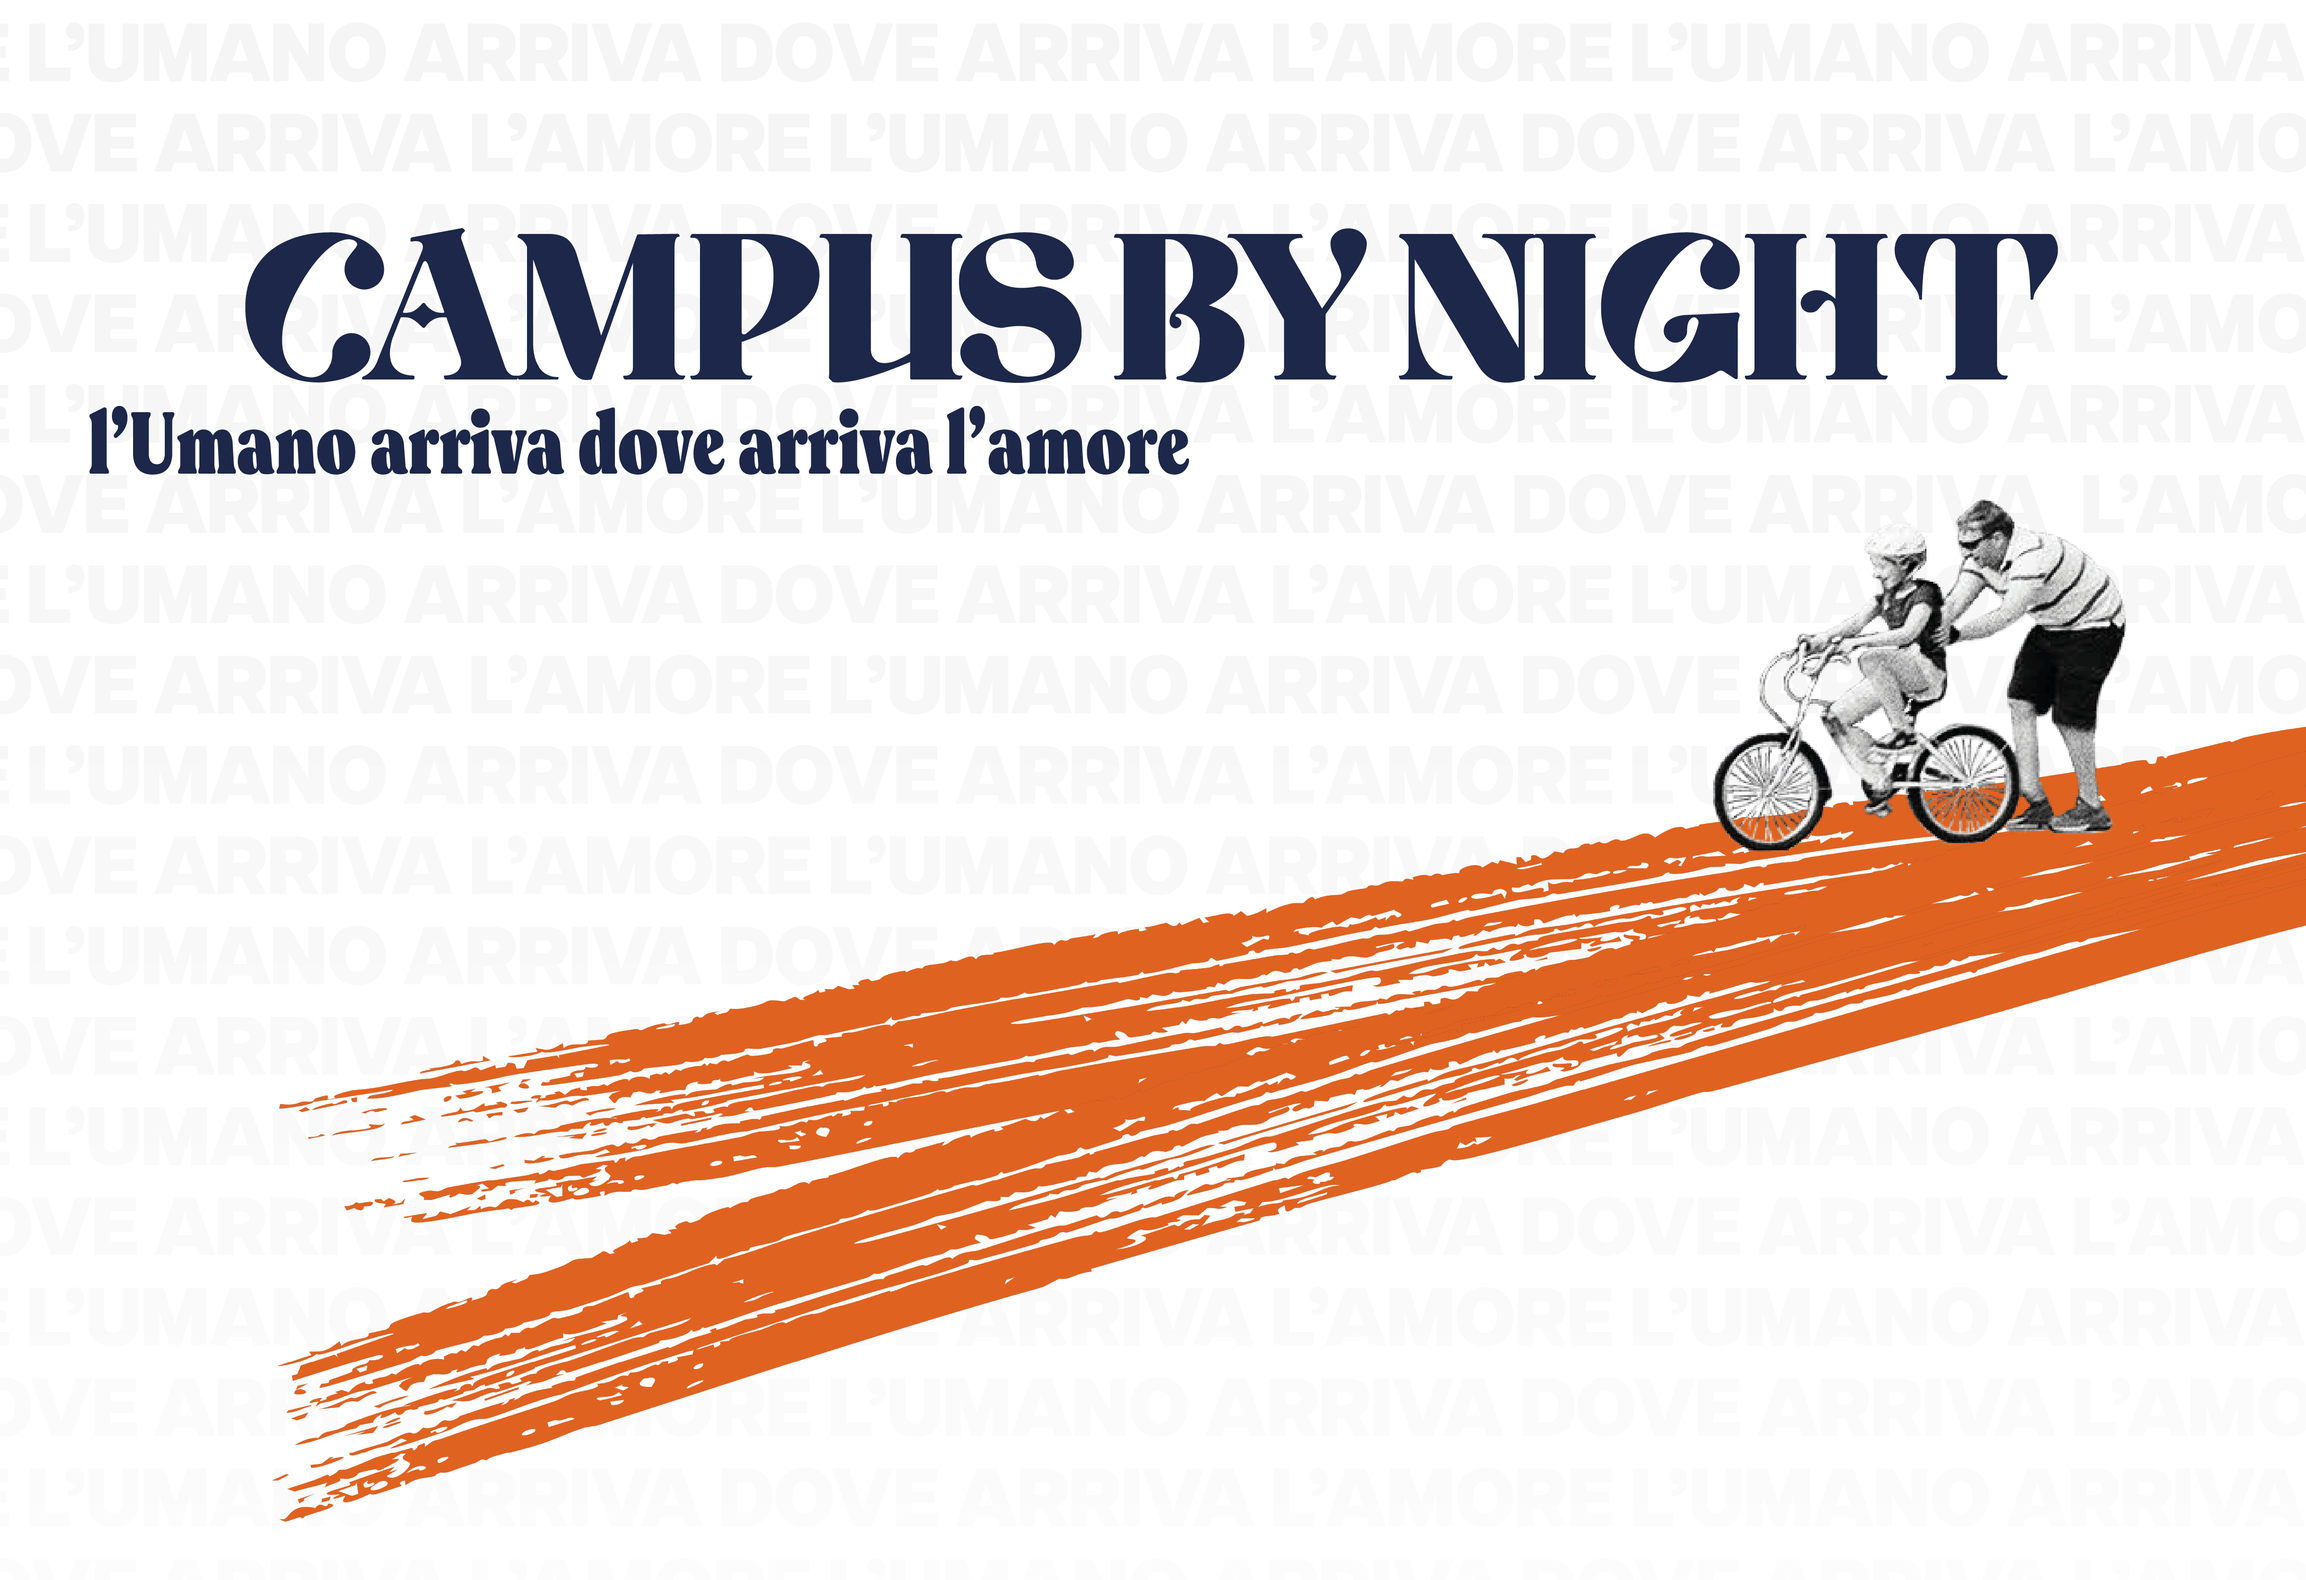
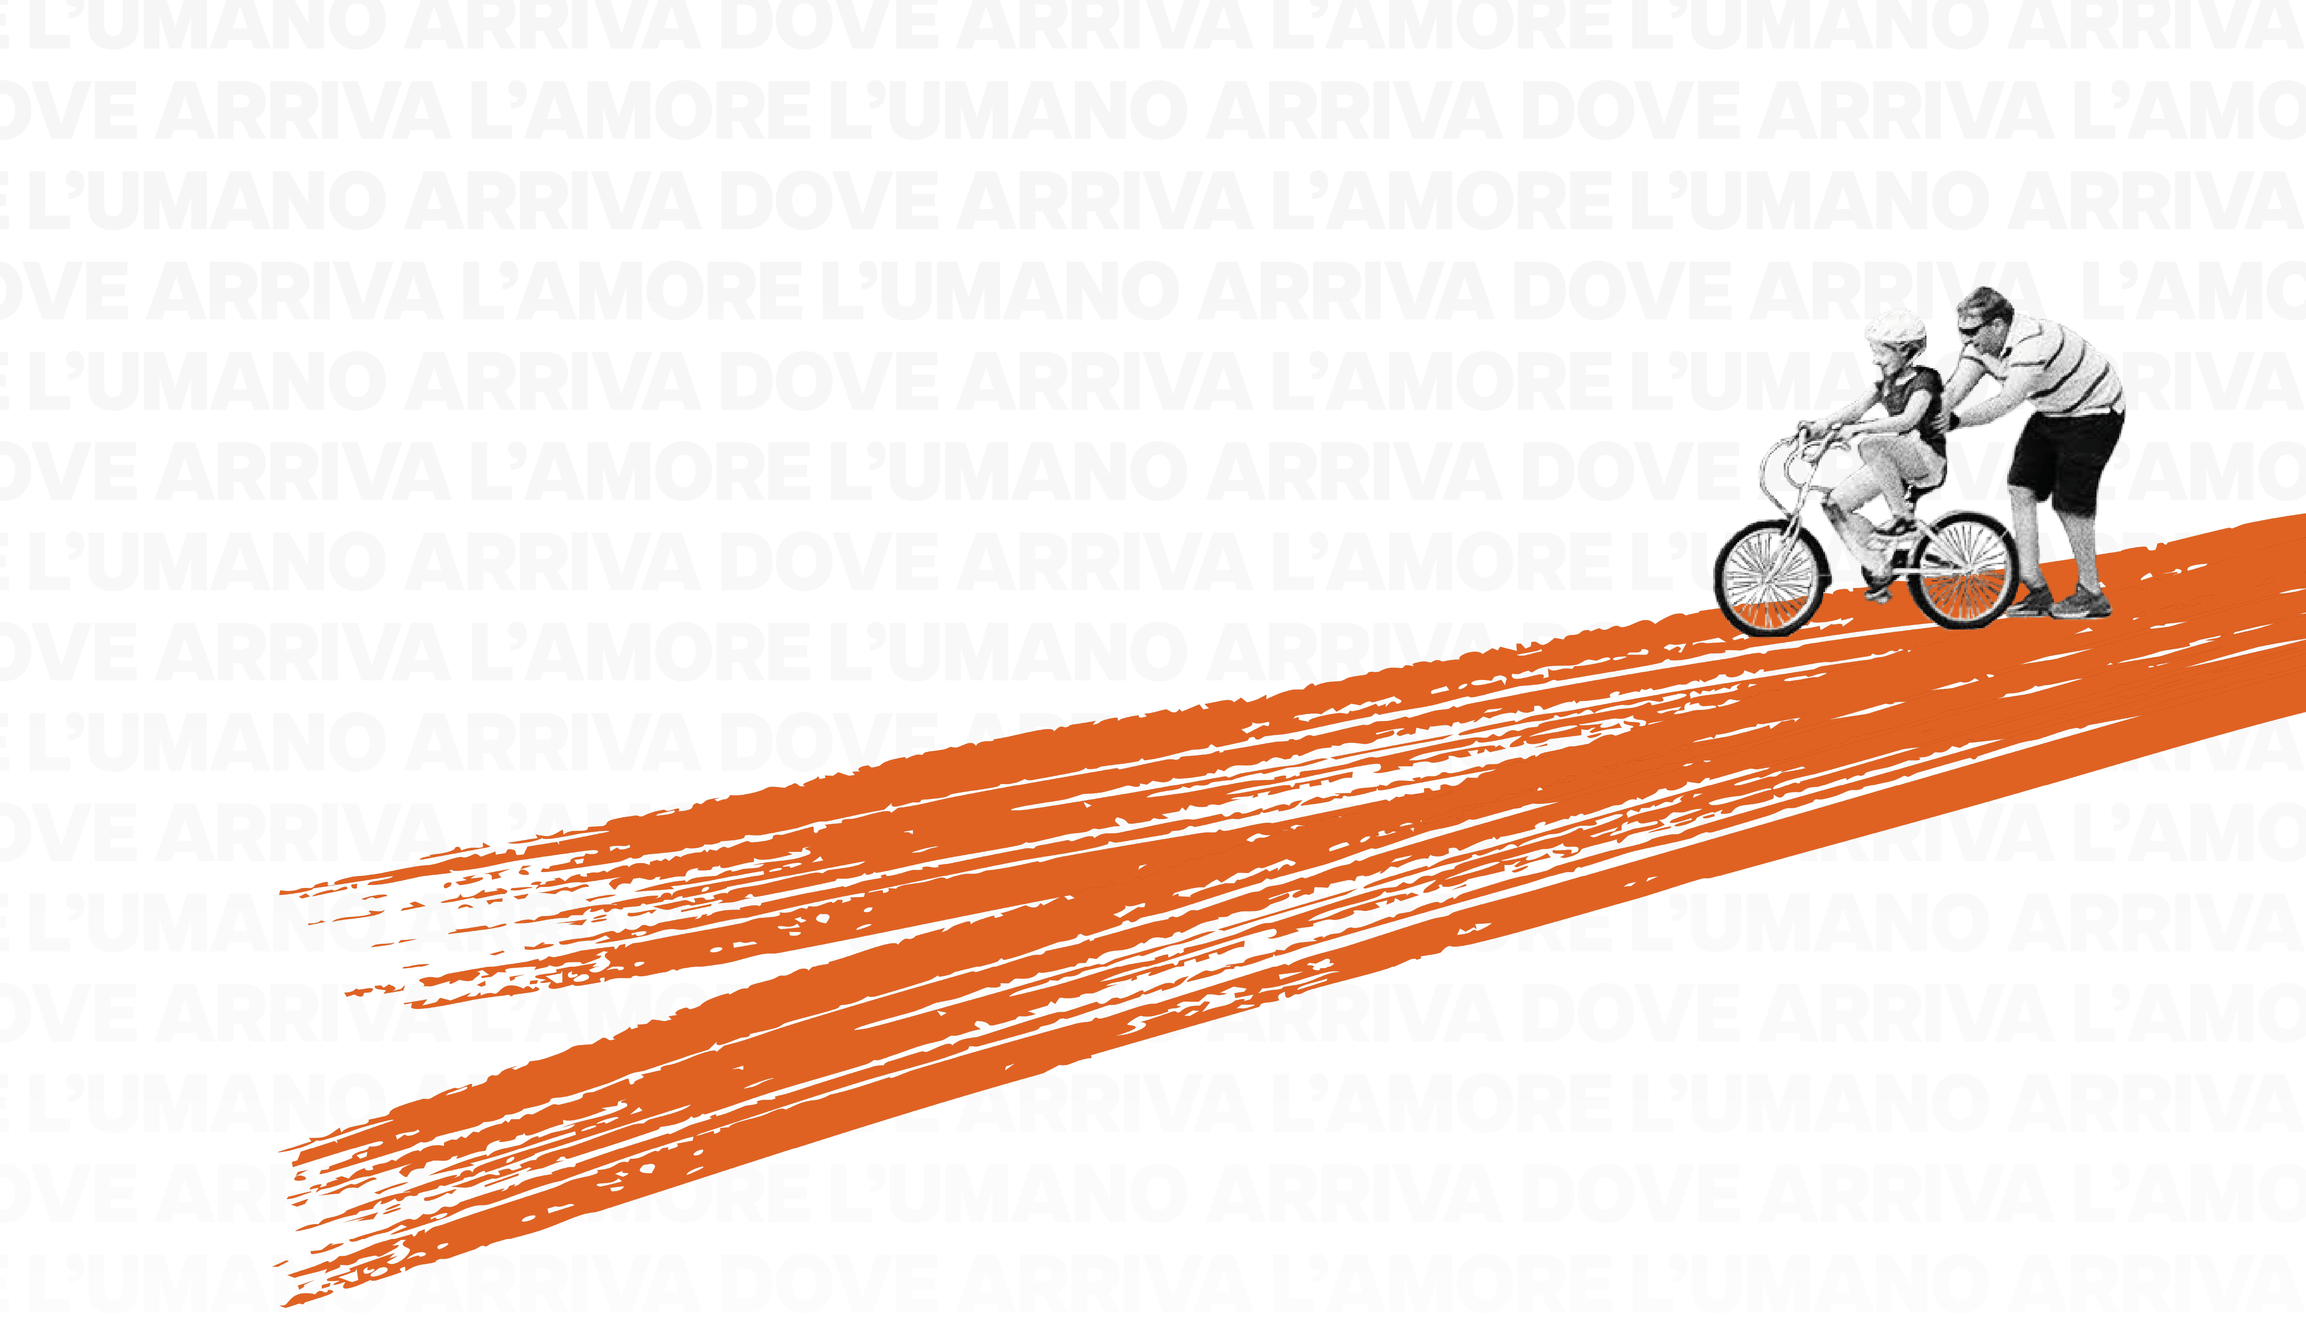
fix hero section index

Changed region(s): [[0.0312, 0.1249, 1.0, 0.9989]]

diff --git a/index.html b/index.html
@@ -720,13 +720,21 @@
   <!-- Navbar montata dinamicamente da components/navbar.html -->
   <div class="navbar-wrapper hidden-1wu7hlw" data-navbar-placeholder="true"></div>
   <!-- =============================== -->
-  <div class="hero" id="hero-section" style="height: auto; padding-top: 64px;">
-    <div class="hero-sfondo" style="position: relative; height: auto;">
+  <div class="hero" id="hero-section" style="position: relative; height: 100vh; padding-top: 64px;">
+    <div class="hero-sfondo" style="position: absolute; top: 64px; left: 0; width: 100%; height: calc(100% - 64px); overflow: hidden;">
         <img
           alt="" decoding="auto" sizes=""
           src="./assets/images/home/hero_section.png"
           srcset=""
-          style="display:block;width:100%;height:auto;object-position:center top;object-fit:contain"/>
+          style="display:block;width:100%;height:100%;object-position:right top;object-fit:cover"/>
+        <!-- Gradiente per sfumare il taglio in basso verso il colore di background -->
+        <div style="position: absolute; bottom: 0; left: 0; width: 100%; height: 20vh; background: linear-gradient(to bottom, transparent, var(--token-de4a76c7-6e4b-4bcc-bedd-c14e940905e2, #fffae3)); pointer-events: none;"></div>
+      </div>
+      <div class="hero-titoli-nuovi" style="position: absolute; top: clamp(70px, 10vh, 160px); left: 50%; transform: translateX(-50%); width: 90%; display: flex; justify-content: center; z-index: 10;">
+        <div style="display: flex; flex-direction: column; align-items: flex-start;">
+          <h1 style="font-family: 'Campus By Night Regular', sans-serif; color: var(--token-d453de31-a28f-4b58-b5d3-fb3a6b7682a5, #21274e); font-size: clamp(40px, 8vw, 150px); margin: 0; line-height: 0.9; text-align: center; white-space: nowrap;">CAMPUS BY NIGHT</h1>
+          <h2 style="font-family: 'Ltt Recoleta Compressed Black', sans-serif; color: var(--token-d453de31-a28f-4b58-b5d3-fb3a6b7682a5, #21274e); font-size: clamp(16px, 3.5vw, 40px); margin: 5px 0 0 5px; line-height: 1.1; text-align: left; letter-spacing: 0.5px;">l'Umano arriva dove arriva l'Amore</h2>
+        </div>
       </div>
   </div>
   <!-- PROGRAMMA  -->

diff --git a/css/style.css b/css/style.css
@@ -5109,7 +5109,7 @@ html {
     width: 100% !important;
     height: 100% !important;
     object-fit: cover !important;
-    object-position: center top !important;
+    object-position: right top !important;
   }
 
   /* 1. Fix larghezza globale: Framer blocca #main a 390px */
